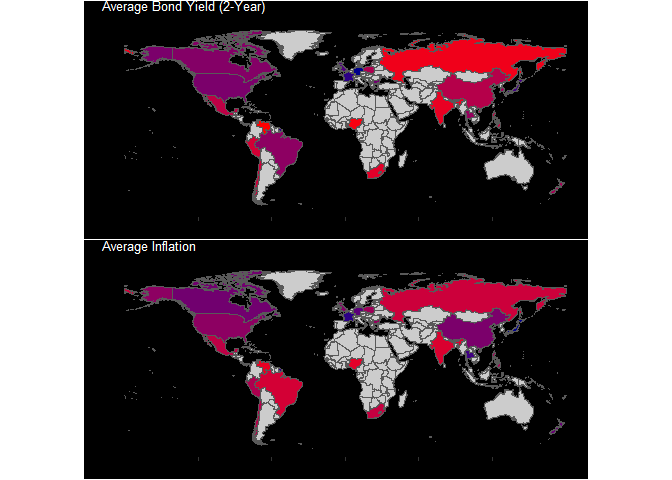
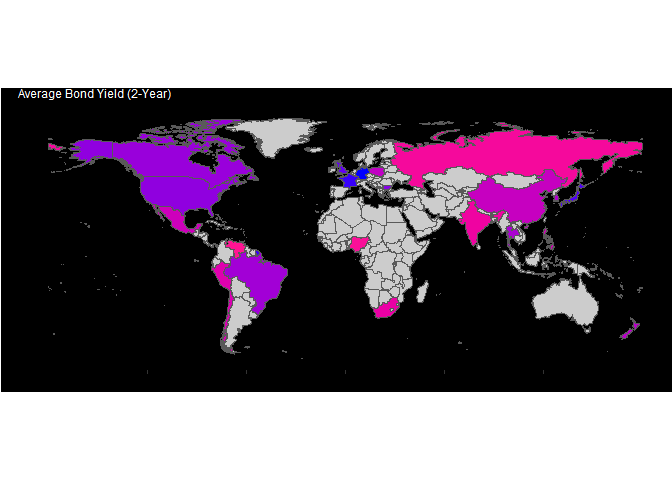
New push after removing grid.arrange

diff --git a/README.md b/README.md
@@ -385,74 +385,76 @@ source("code/Yield_Plotter_foo.R")
 
 ###
 
-grid.arrange(
+
 
 Yield_Plotter(Data = Bonds10yr,
               Vec = Dev_Count, 
               y = BondYield_10,
               "Developed Nations",
               "Bond Yield (10-Year)",
-              "none"),
+              "none")
+```
 
+<img src="README_files/figure-markdown_github/unnamed-chunk-8-1.png" width="100%" height="100%" />
+
+``` r
 Yield_Plotter(Data = CPI,
               Vec = Dev_Count, 
               y = Inflation,
               "",
               "Inflation",
-              "bottom"),
-
-ncol = 1)
+              "bottom")
 ```
 
-<img src="README_files/figure-markdown_github/unnamed-chunk-8-1.png" width="100%" height="100%" />
+<img src="README_files/figure-markdown_github/unnamed-chunk-8-2.png" width="100%" height="100%" />
 
 ## Developing Nations Bond Yields & Inflation
 
 ``` r
-grid.arrange(
-
 Yield_Plotter(Data = Bonds10yr,
               Vec = Developing_vec, 
               y = BondYield_10,
               "Developing Nations",
               "Bond Yield (10-Year)",
-              "none"),
+              "none")
+```
 
+<img src="README_files/figure-markdown_github/unnamed-chunk-9-1.png" width="100%" height="100%" />
+
+``` r
 Yield_Plotter(Data = CPI,
               Vec = Developing_vec, 
               y = Inflation,
               "",
               "Inflation",
-              "bottom"),
-
-ncol = 1)
+              "bottom")
 ```
 
-<img src="README_files/figure-markdown_github/unnamed-chunk-9-1.png" width="100%" height="100%" />
+<img src="README_files/figure-markdown_github/unnamed-chunk-9-2.png" width="100%" height="100%" />
 
 ## BRICS Bond Yields & Inflation
 
 ``` r
-grid.arrange(
-
 Yield_Plotter(Data = Bonds10yr,
               Vec = BRICS, 
               y = BondYield_10,
               "BRICS",
               "Bond Yield (10-Year)",
-              "none"),
+              "none")
+```
 
+<img src="README_files/figure-markdown_github/unnamed-chunk-10-1.png" width="100%" height="100%" />
+
+``` r
 Yield_Plotter(Data = CPI,
               Vec = BRICS, 
               y = Inflation,
               "",
               "Inflation",
-              "bottom"),
-
-ncol = 1)
+              "bottom")
 ```
 
-<img src="README_files/figure-markdown_github/unnamed-chunk-10-1.png" width="100%" height="100%" />
+<img src="README_files/figure-markdown_github/unnamed-chunk-10-2.png" width="100%" height="100%" />
 
 ``` r
 # Housekeeping 
@@ -502,7 +504,7 @@ Ridge_Plotter(Bonds10yr,
               "US", # American mean bond yield dotted line
               BondYield_10, 
               Dev_Count,
-              "Distribution of Developed Countries' Yields")
+              "Distribution of Developed Countries Yields")
 ```
 
     ## Picking joint bandwidth of 0.286
@@ -540,13 +542,19 @@ source("code/Create_Map_foo.R")
 
 ###
 
-grid.arrange(
+Yield_Map <- create_map(M1, "Average Bond Yield (2-Year)", "none")
 
-create_map(M1, "Average Bond Yield (2-Year)"),
+Inflation_Map <- create_map(M2, "Average Inflation", "none")
 
-create_map(M2, "Average Inflation"),
+###
 
-ncol = 1)
+print(Yield_Map)
 ```
 
 <img src="README_files/figure-markdown_github/unnamed-chunk-15-1.png" width="100%" height="100%" />
+
+``` r
+print(Inflation_Map)
+```
+
+<img src="README_files/figure-markdown_github/unnamed-chunk-15-2.png" width="100%" height="100%" />
